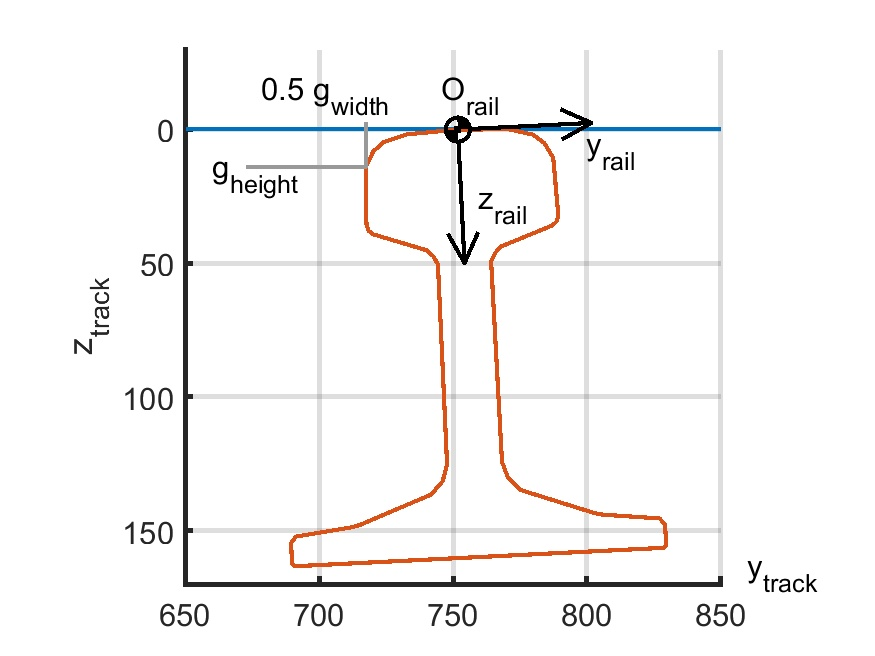
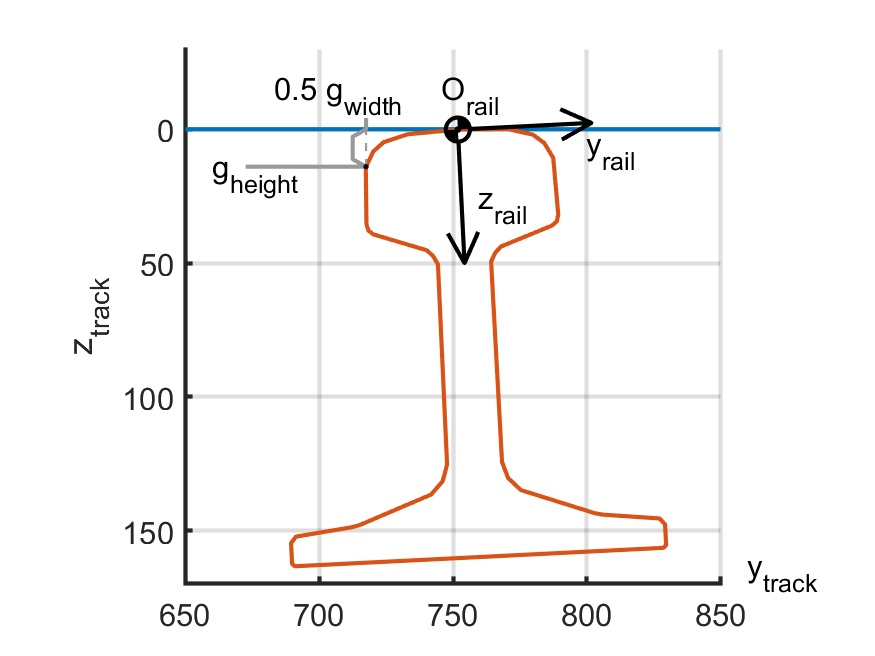
change gauge-point definition, add Z2-digit

Changed region(s): [[0.216, 0.8841, 0.8331, 0.9146], [0.2777, 0.122, 0.6789, 0.2744], [0.5246, 0.3659, 0.5554, 0.3963]]

diff --git a/doc/user-guide.tex b/doc/user-guide.tex
@@ -77,7 +77,7 @@
 \vtlogentry{1.166}{EV}{21-05-2024}{Added effective working folder}{}
 \vtlogentry{1.167}{EV}{16-06-2024}{Version for release v24.1}{}
 \vtlogentry{1.168}{EV}{06-07-2024}{Added ${\tt V}=2$, friction variation in
-                        track direction }{}
+                        track direction}{}
 \vtlogentry{1.169}{EV}{20-08-2024}{Require total profile length in
                 $[5,500]\unit{mm}$}{}
 \vtlogentry{1.170}{EV}{04-11-2024}{Added $g_{miss}$ in blending approach}{}
@@ -811,6 +811,15 @@ $^*$ Option ${\tt C}_3=9$ is not available in module 1.
         wheel profile, and read flexible wheelset deviations.
 \end{description}
 
+\item[Z$_2$ - ZTRCK2] \label{z2-digit} : detailed configuration of the
+        gauge point computation (page \pageref{sec:ztrck2}):
+\begin{description}
+\item[0] -- default: sampling the rail profile at the gauge height
+        $z_r=g_{height}$.
+\item[1] -- original approach: using the left-most point of the rail for
+        $z_r\in [0,g_{height}]$.
+\end{description}
+
 \item[M$_2$ - MATER2] \label{m2-digit} : type of {\em material model\/} to
         be used with respect to damping:
 \begin{description}
@@ -1188,6 +1197,25 @@ It is first rotated for cant and then shifted up to just touch the track
 plane and shifted left to touch the gauge stop. Note that $O_{rail}$ may be
 associated with the highest point in the uncanted rail, which need not be
 the highest point on the rail after cant is applied.
+
+\label{sec:ztrck2}Two different variants of the gauge point computation are
+implemented in CONTACT. The default method ${\tt Z}_2=0$ shifts the rail up
+to touch the track plane ($\min(z_r)=0$), then measures the gauge at a fixed
+height
+\begin{equation}
+        y_{gauge0}=y_r(z_r=g_{height}) 
+\end{equation}
+using interpolation. This corresponds to the measuring bar shown in Figure
+\ref{fig:rail_coords} with a pin at the gauge measuring height. An
+alternative is activated using ${\tt Z}_2=1$:
+\begin{equation}
+        y_{gauge1} = \mathrm{min}_{z_r\in[0,g_{height}]} y_r(z_r) .
+\end{equation}
+This method uses the left-most point over the range $[0,g_{height}]$,
+corresponding to a measuring bar with straight vertical side.
+% (\cite[Fig.\ 8]{Vollebregt2020-wrgeom})
+The two methods result in different placement for rails with a gauge corner
+lip or bulge created by plastic flow. 
 
 \paragraph{Absolute rail placement}
 
@@ -7357,9 +7385,7 @@ This computes the same cases as in the {\tt subsurf}-example of Section
 
 \clearpage
 
-% \renewcommand{\bibname}{Xeferenties}
 \addcontentsline{toc}{chapter}{\bibname}
-
 \bibliographystyle{plain}
 \bibliography{ug_contact}
 
@@ -7463,8 +7489,8 @@ The input for one case of wheel/rail contact consists of:
 % Control integers, see section \ref{sec:controldigits}:
 
  CPBTNFS       (        CONFIG, PVTIME, BOUND , TANG  , NORM  , FORCE , STRESS)
- VLDCMZE  \{\magenta{M}M\} (        VARFRC, FRCLAW, DISCNS, INFLCF, MATER , ZTRACK, EWHEEL,
-                                                                \magenta{MATER3,} MATER2)
+ VLDCMZE \{\magenta{ZM}M\} (        VARFRC, FRCLAW, DISCNS, INFLCF, MATER , ZTRACK, EWHEEL,
+                                                        \magenta{ZTRCK2,} \magenta{MATER3,} MATER2)
 XHGIAOWR       (XFLOW , HEAT  , GAUSEI, IESTIM, MATFIL, OUTPUT, FLOW  , RETURN)
 
 % Parameters for additional debug output
@@ -7934,7 +7960,7 @@ High-level functions are provided for wheel-rail contacts in `module 1'.
 This is based on wheel and rail profiles and corresponding dimensions and
 states. In this case, CONTACT performs analysis of the contact geometry
 problem, identifying contact patches and computing the creepage
-\cite{Vollebregt2020b-wrgeom,Vollebregt2020c-distr-force}. Low-level
+\cite{Vollebregt2020c-distr-force,Vollebregt2020b-wrgeom}. Low-level
 functions are provided in `module 3' that are more general by nature but
 may be harder to use.
 

diff --git a/doc/fig/plot_railirreg.m b/doc/fig/plot_railirreg.m
@@ -1,5 +1,5 @@
 
-print_fig = 0;
+print_fig = 1;
 
 addpath('../../matlab_intern');
 set(0,'defaultaxeslinewidth',2);
@@ -98,11 +98,11 @@ set(h, 'linewidth',1, 'linestyle','-');
 
 % plot gauge measuring bar
 
-plot(ydsgn(ixg)+[-45 0 0], gauge_height*[1 1 -0.2], 'color',0.6*[1 1 1]);
-%text(ydsgn(ixg)-15, -3, '0.5 g_{width}', 'horizontalalignment','center', ...
-%                                        'verticalalignment','bottom');
-%text(ydsgn(ixg)-25, gauge_height+2, 'g_{height}', ...
-%                'horizontalalignment','right');
+plot(ydsgn(ixg)+[-45 0 -5 -5 0 0], gauge_height*[1 1 0.8 0.2 0 -0.3], 'color',0.6*[1 1 1]);
+plot(ydsgn(ixg)+[0 0], gauge_height*[1 -0.3], '--', 'color',0.6*[1 1 1], 'linewidth',1);
+plot(ydsgn(ixg), gauge_height, 'k.', 'markersize',8);
+%text(ydsgn(ixg)-10, -3, '0.5 g_{width}', 'horizontalalignment','center', 'verticalalignment','bottom');
+%text(ydsgn(ixg)-25, gauge_height+2, 'g_{height}', 'horizontalalignment','right');
 
 % rotate & shift rail to actual position
 

diff --git a/doc/fig/plot_railcoord.m b/doc/fig/plot_railcoord.m
@@ -82,8 +82,10 @@ plot(yact(1), zact(1), 'k.', 'markersize',10);
 
 % plot gauge measuring point
 
-plot(yact(ixg)+[-45 0 0], gauge_height*[1 1 -0.2], 'color',0.6*[1 1 1]);
-text(yact(ixg)-15, -3, '0.5 g_{width}', 'horizontalalignment','center', ...
+plot(yact(ixg)+[-45 0 -5 -5 0 0], gauge_height*[1 1 0.8 0.2 0 -0.3], 'color',0.6*[1 1 1]);
+plot(yact(ixg)+[0 0], gauge_height*[1 -0.3], '--', 'color',0.6*[1 1 1], 'linewidth',1);
+plot(yact(ixg), gauge_height, 'k.', 'markersize',8);
+text(yact(ixg)-10, -3, '0.5 g_{width}', 'horizontalalignment','center', ...
                                         'verticalalignment','bottom');
 text(yact(ixg)-25, gauge_height+2, 'g_{height}', ...
                 'horizontalalignment','right');

diff --git a/python_intfc/cntc_getmagicnumbers.py b/python_intfc/cntc_getmagicnumbers.py
@@ -113,6 +113,7 @@ def cntc_getmagicnumbers():
                                #   1: displacements and stress-invariants are written
                                #   2: the full stress tensor is written as well
     CNTC['ic_npomax']  = 1993; # code for setting the max. #elements in the potential contact area
+    CNTC['ic_ztrck2']  = 1994; # code for setting the control digit Z2, ZTRCK2
                       
     CNTC['if_idebug']  = 2000; # code for level of print-output of the addon itself
                                #     0 = none, 1 = overview (default), 2 = full, 3+ = debug

diff --git a/matlab_intfc/cntc_getmagicnumbers.m b/matlab_intfc/cntc_getmagicnumbers.m
@@ -112,6 +112,7 @@ function [ CNTC ] = cntc_getmagicnumbers();
                            %   1: displacements and stress-invariants are written
                            %   2: the full stress tensor is written as well
    CNTC.ic_npomax  = 1993; % code for setting the max. #elements in the potential contact area
+   CNTC.ic_ztrck2  = 1994; % code for setting the control digit Z2, ZTRCK2
                   
    CNTC.if_idebug  = 2000; % code for level of print-output of the addon itself
                            %     0 = none, 1 = overview (default), 2 = full, 3+ = debug

diff --git a/doc/texinputs.tex b/doc/texinputs.tex
@@ -37,9 +37,9 @@
 \newcommand{\txtfod}[2]{d #1/d #2}	
 \newcommand{\txtmtd}[1]{ {\rm D} #1/{\rm D}t }
 
-\newcommand{\acos}{ \mathrm{acos} }	
-\newcommand{\asin}{ \mathrm{asin} }	
-\newcommand{\atan}{ \mathrm{atan} }	
+\newcommand{\acos}{ \operatorname{acos} }
+\newcommand{\asin}{ \operatorname{asin} }
+\newcommand{\atan}{ \operatorname{atan} }
 
 \newcommand{\bunit}[1]{[\mathrm{#1}]}
 \newcommand{\unit}[1]{\,\mathrm{#1}}
